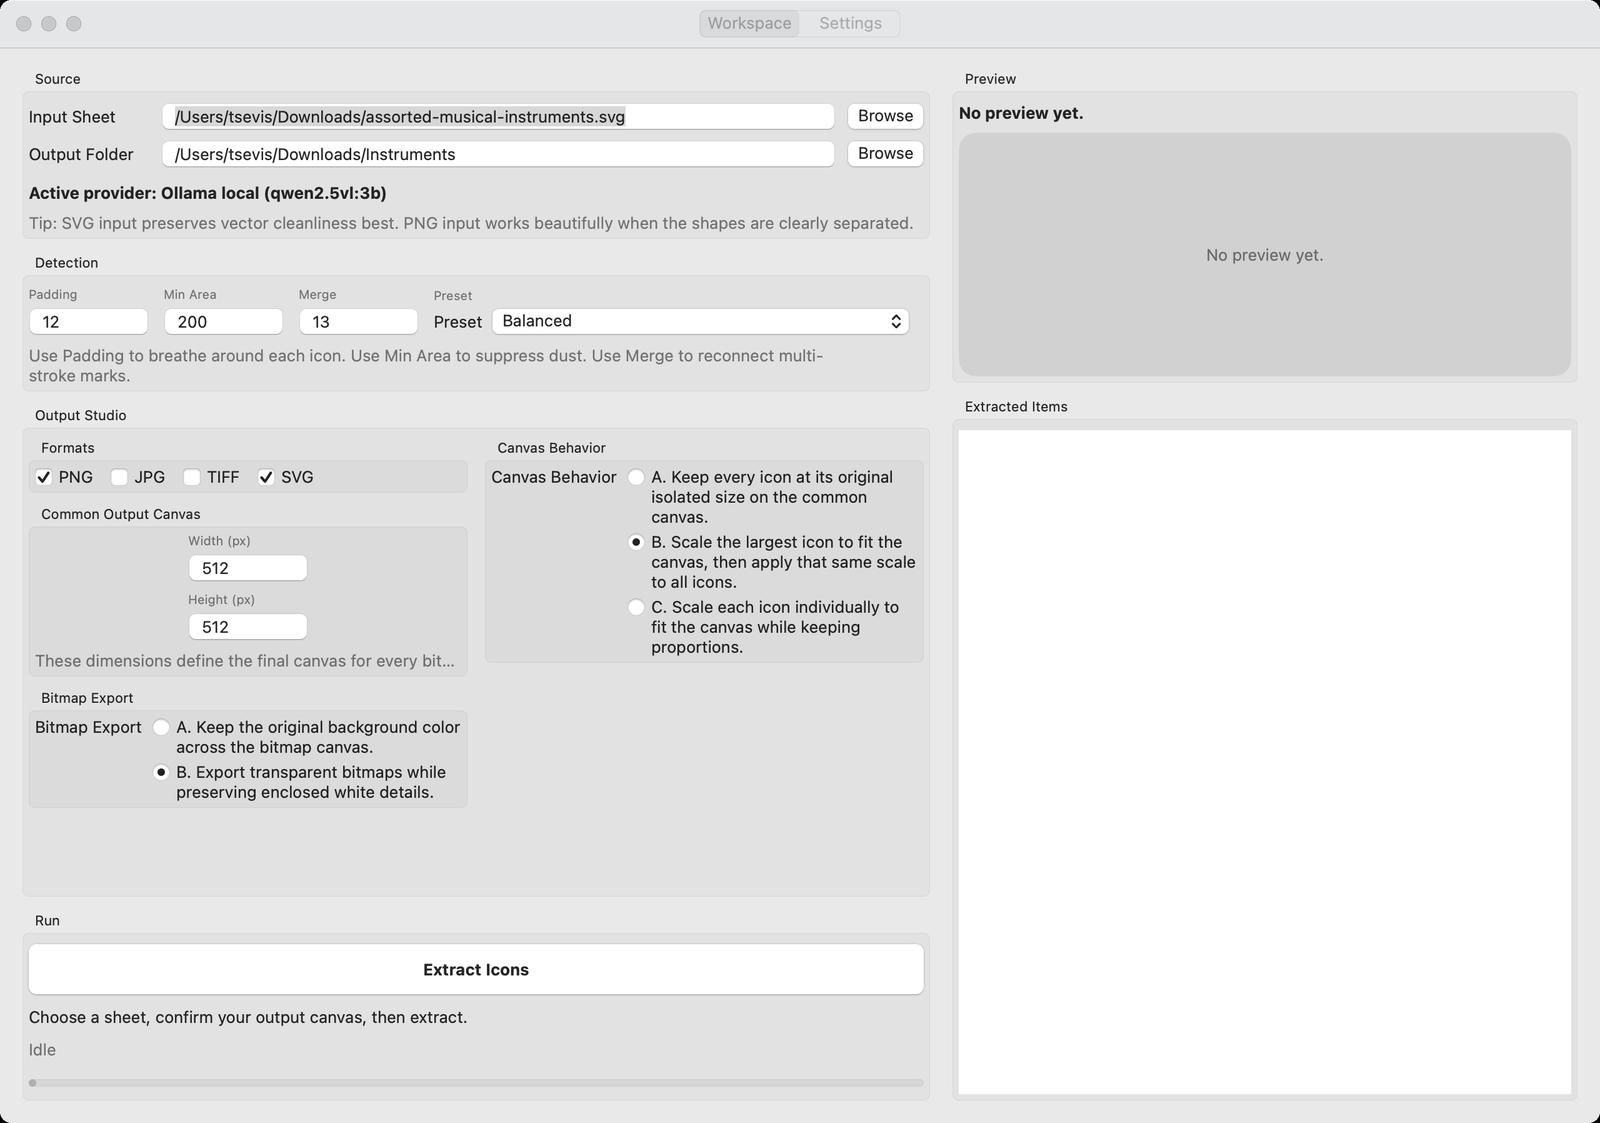
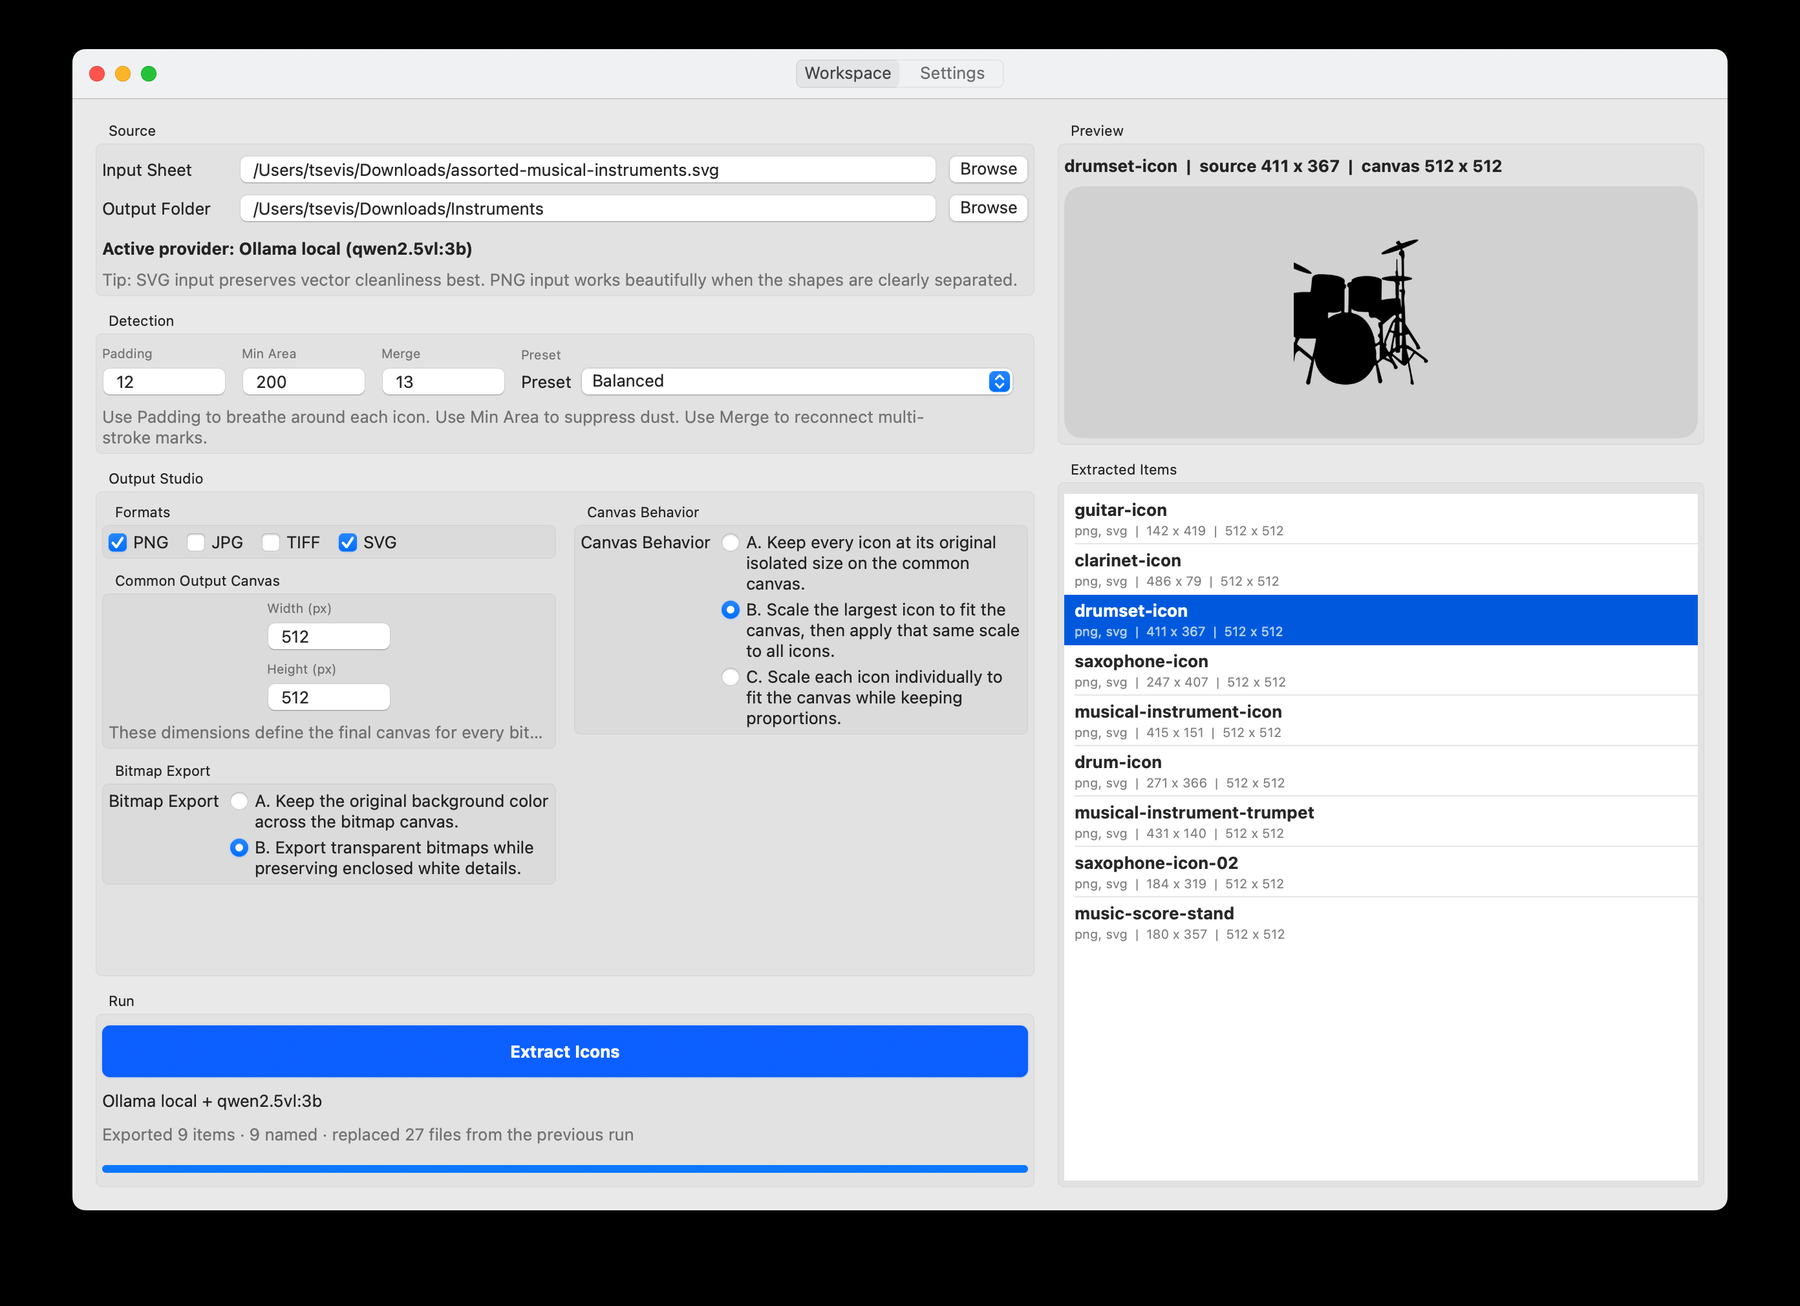
docs: real screenshots of the current build
Both captured from the freshly built app, not the June copy in /Applications
that still carries engine 0.1.0 and has no llama.cpp UI.

workspace.png shows nine instruments extracted from one vector sheet and named
by a local model, with the completion line reporting named and replaced counts.
The drum kit is nineteen separate paths held together only by its <g>, and
stays one icon.

settings.png shows the four-way provider picker including llama.cpp, the
engine-driven readiness verdict, and all ten catalog models across both
backends with their download sizes.

diff --git a/README.md b/README.md
@@ -8,6 +8,10 @@ turn one sheet full of icons into a tidy set of cropped, named, organized files.
 Everything ships inside the app. There is no Python to install, no Inkscape to
 find, no `PATH` to configure — and nothing leaves your Mac.
 
+*Above: nine instruments extracted from one vector sheet and named by a local
+model. The drum kit is drawn as nineteen separate paths and stays a single
+icon, because the artwork groups it that way.*
+
 ---
 
 ## What it does
@@ -28,6 +32,11 @@ A vision model backend is optional, and only needed for semantic naming. The
 app detects [Ollama](https://ollama.com) and
 [llama.cpp](https://github.com/ggml-org/llama.cpp) if you have them, and can
 download a model into either.
+
+![MacShapearator settings](docs/settings.png)
+
+*Readiness is the engine's own verdict, not a second implementation of it, so
+both backends behave identically and every catalog model is one click away.*
 
 ---
 
